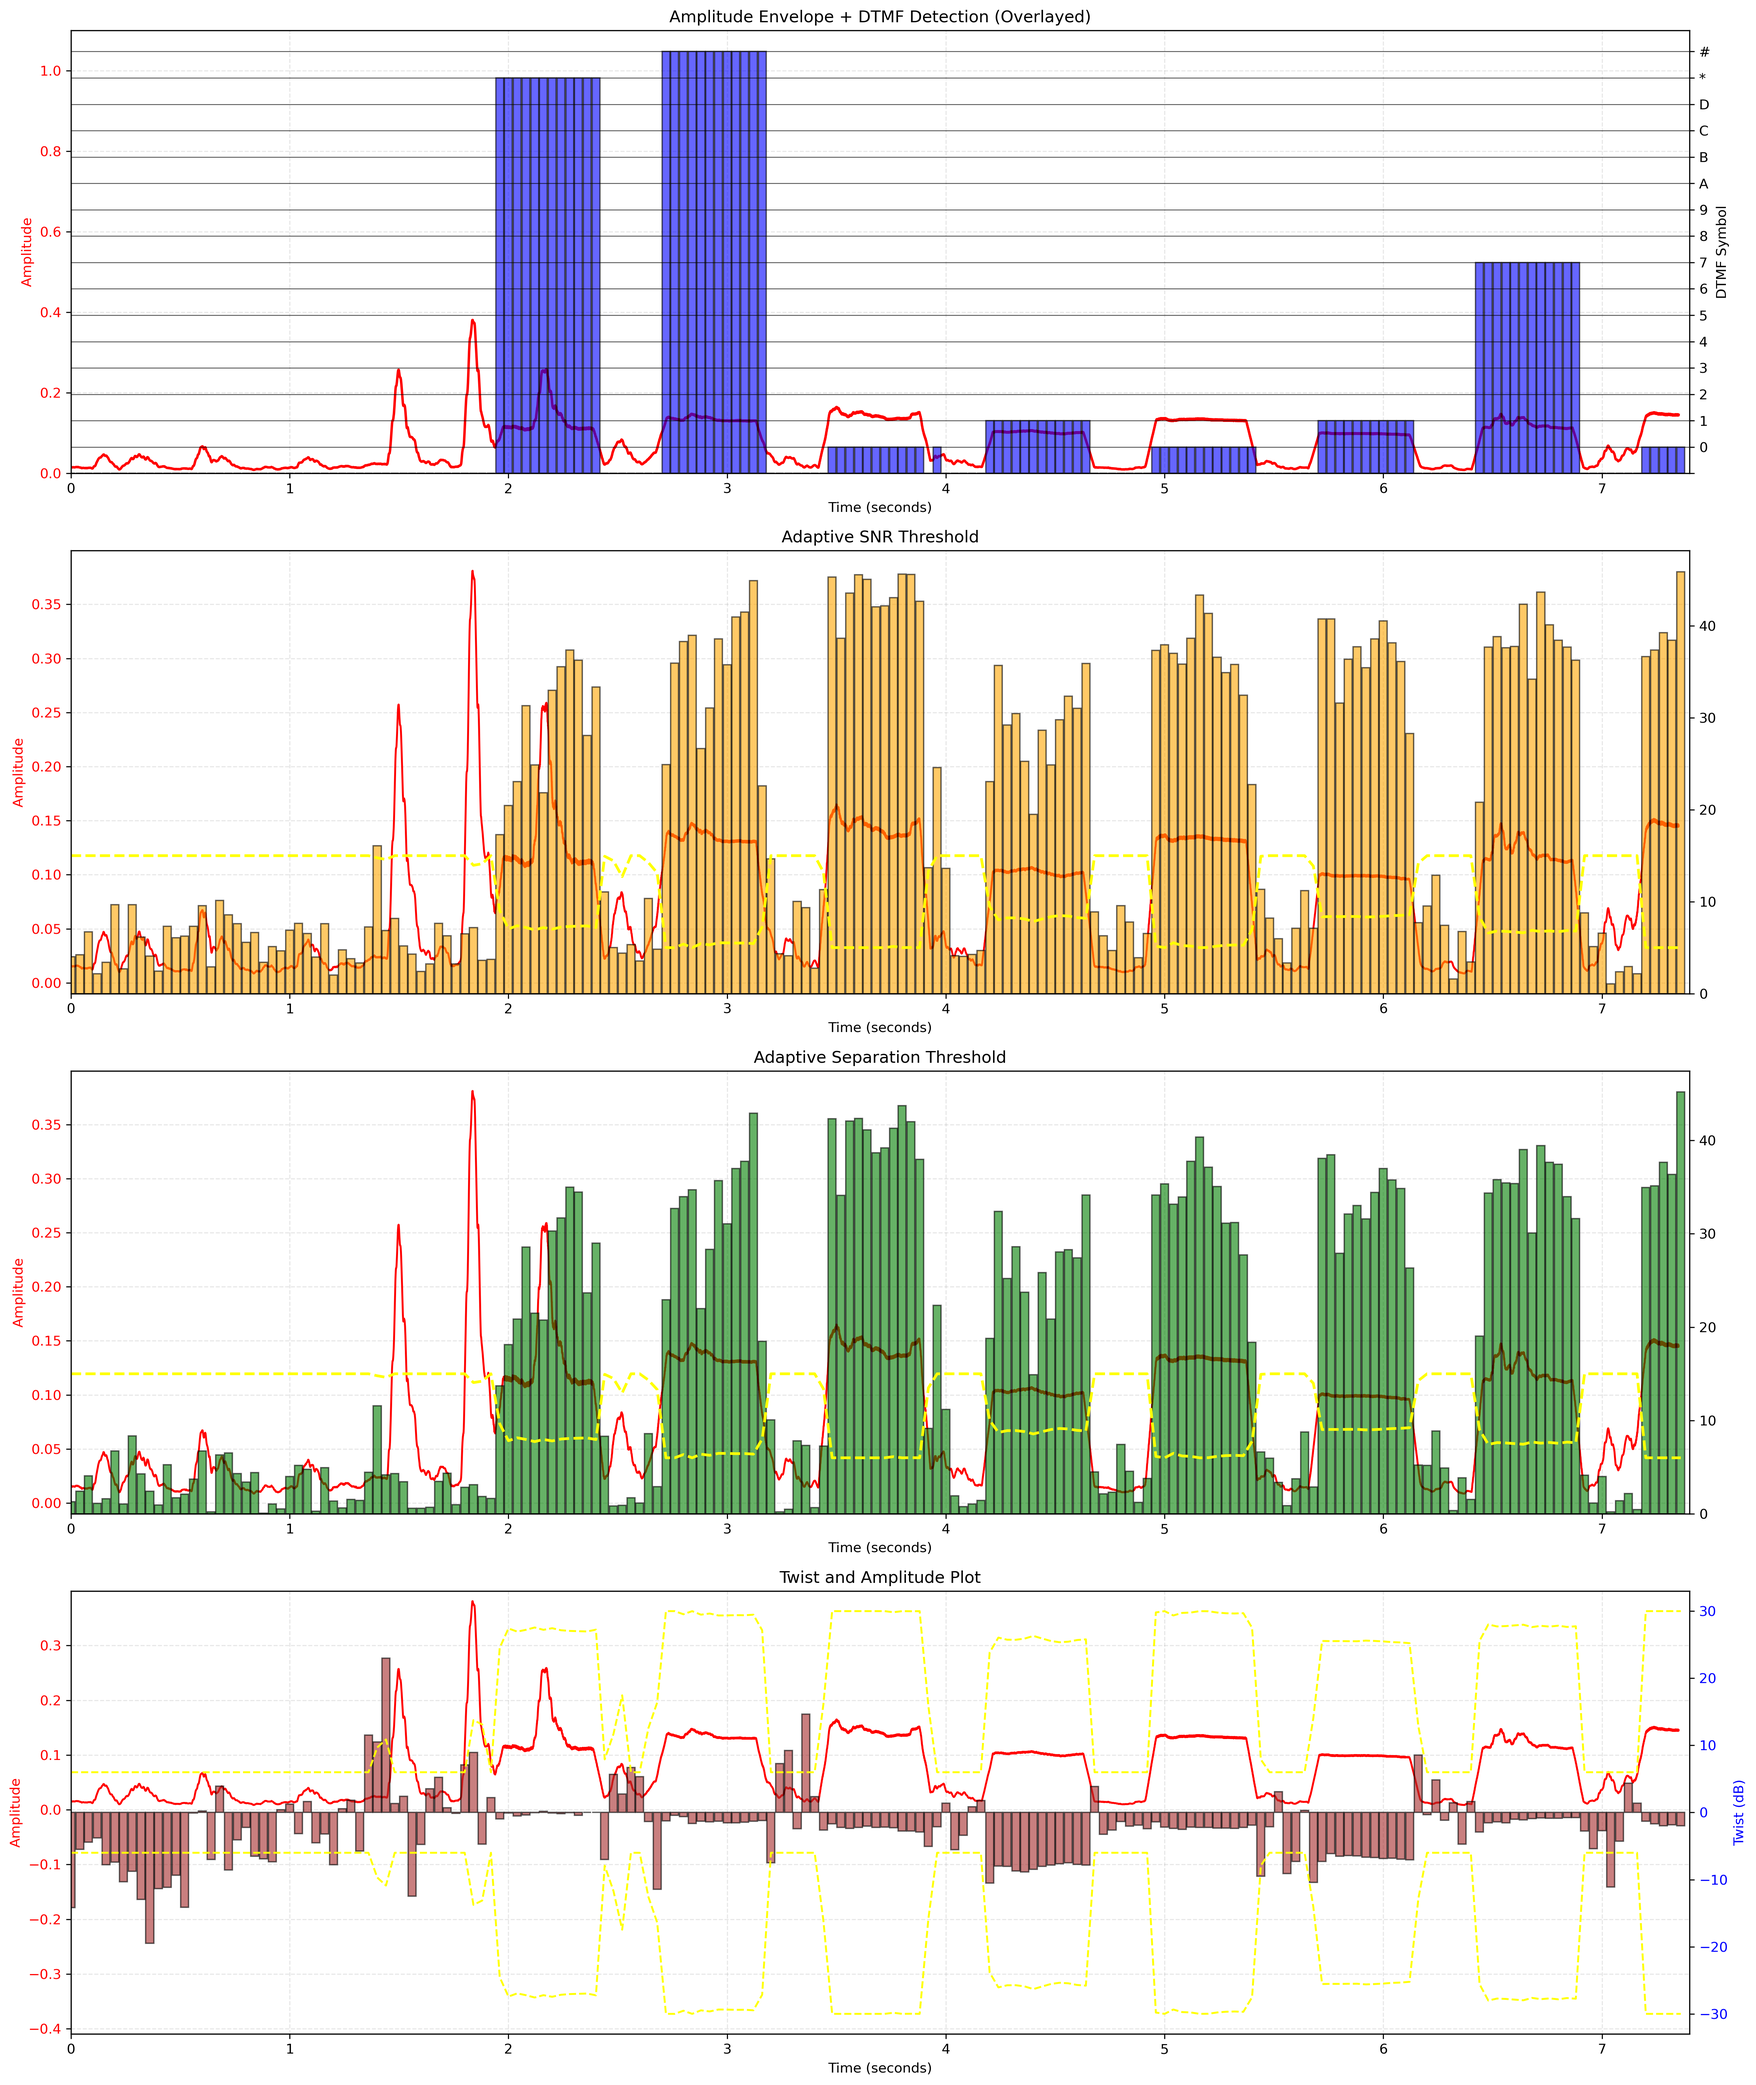
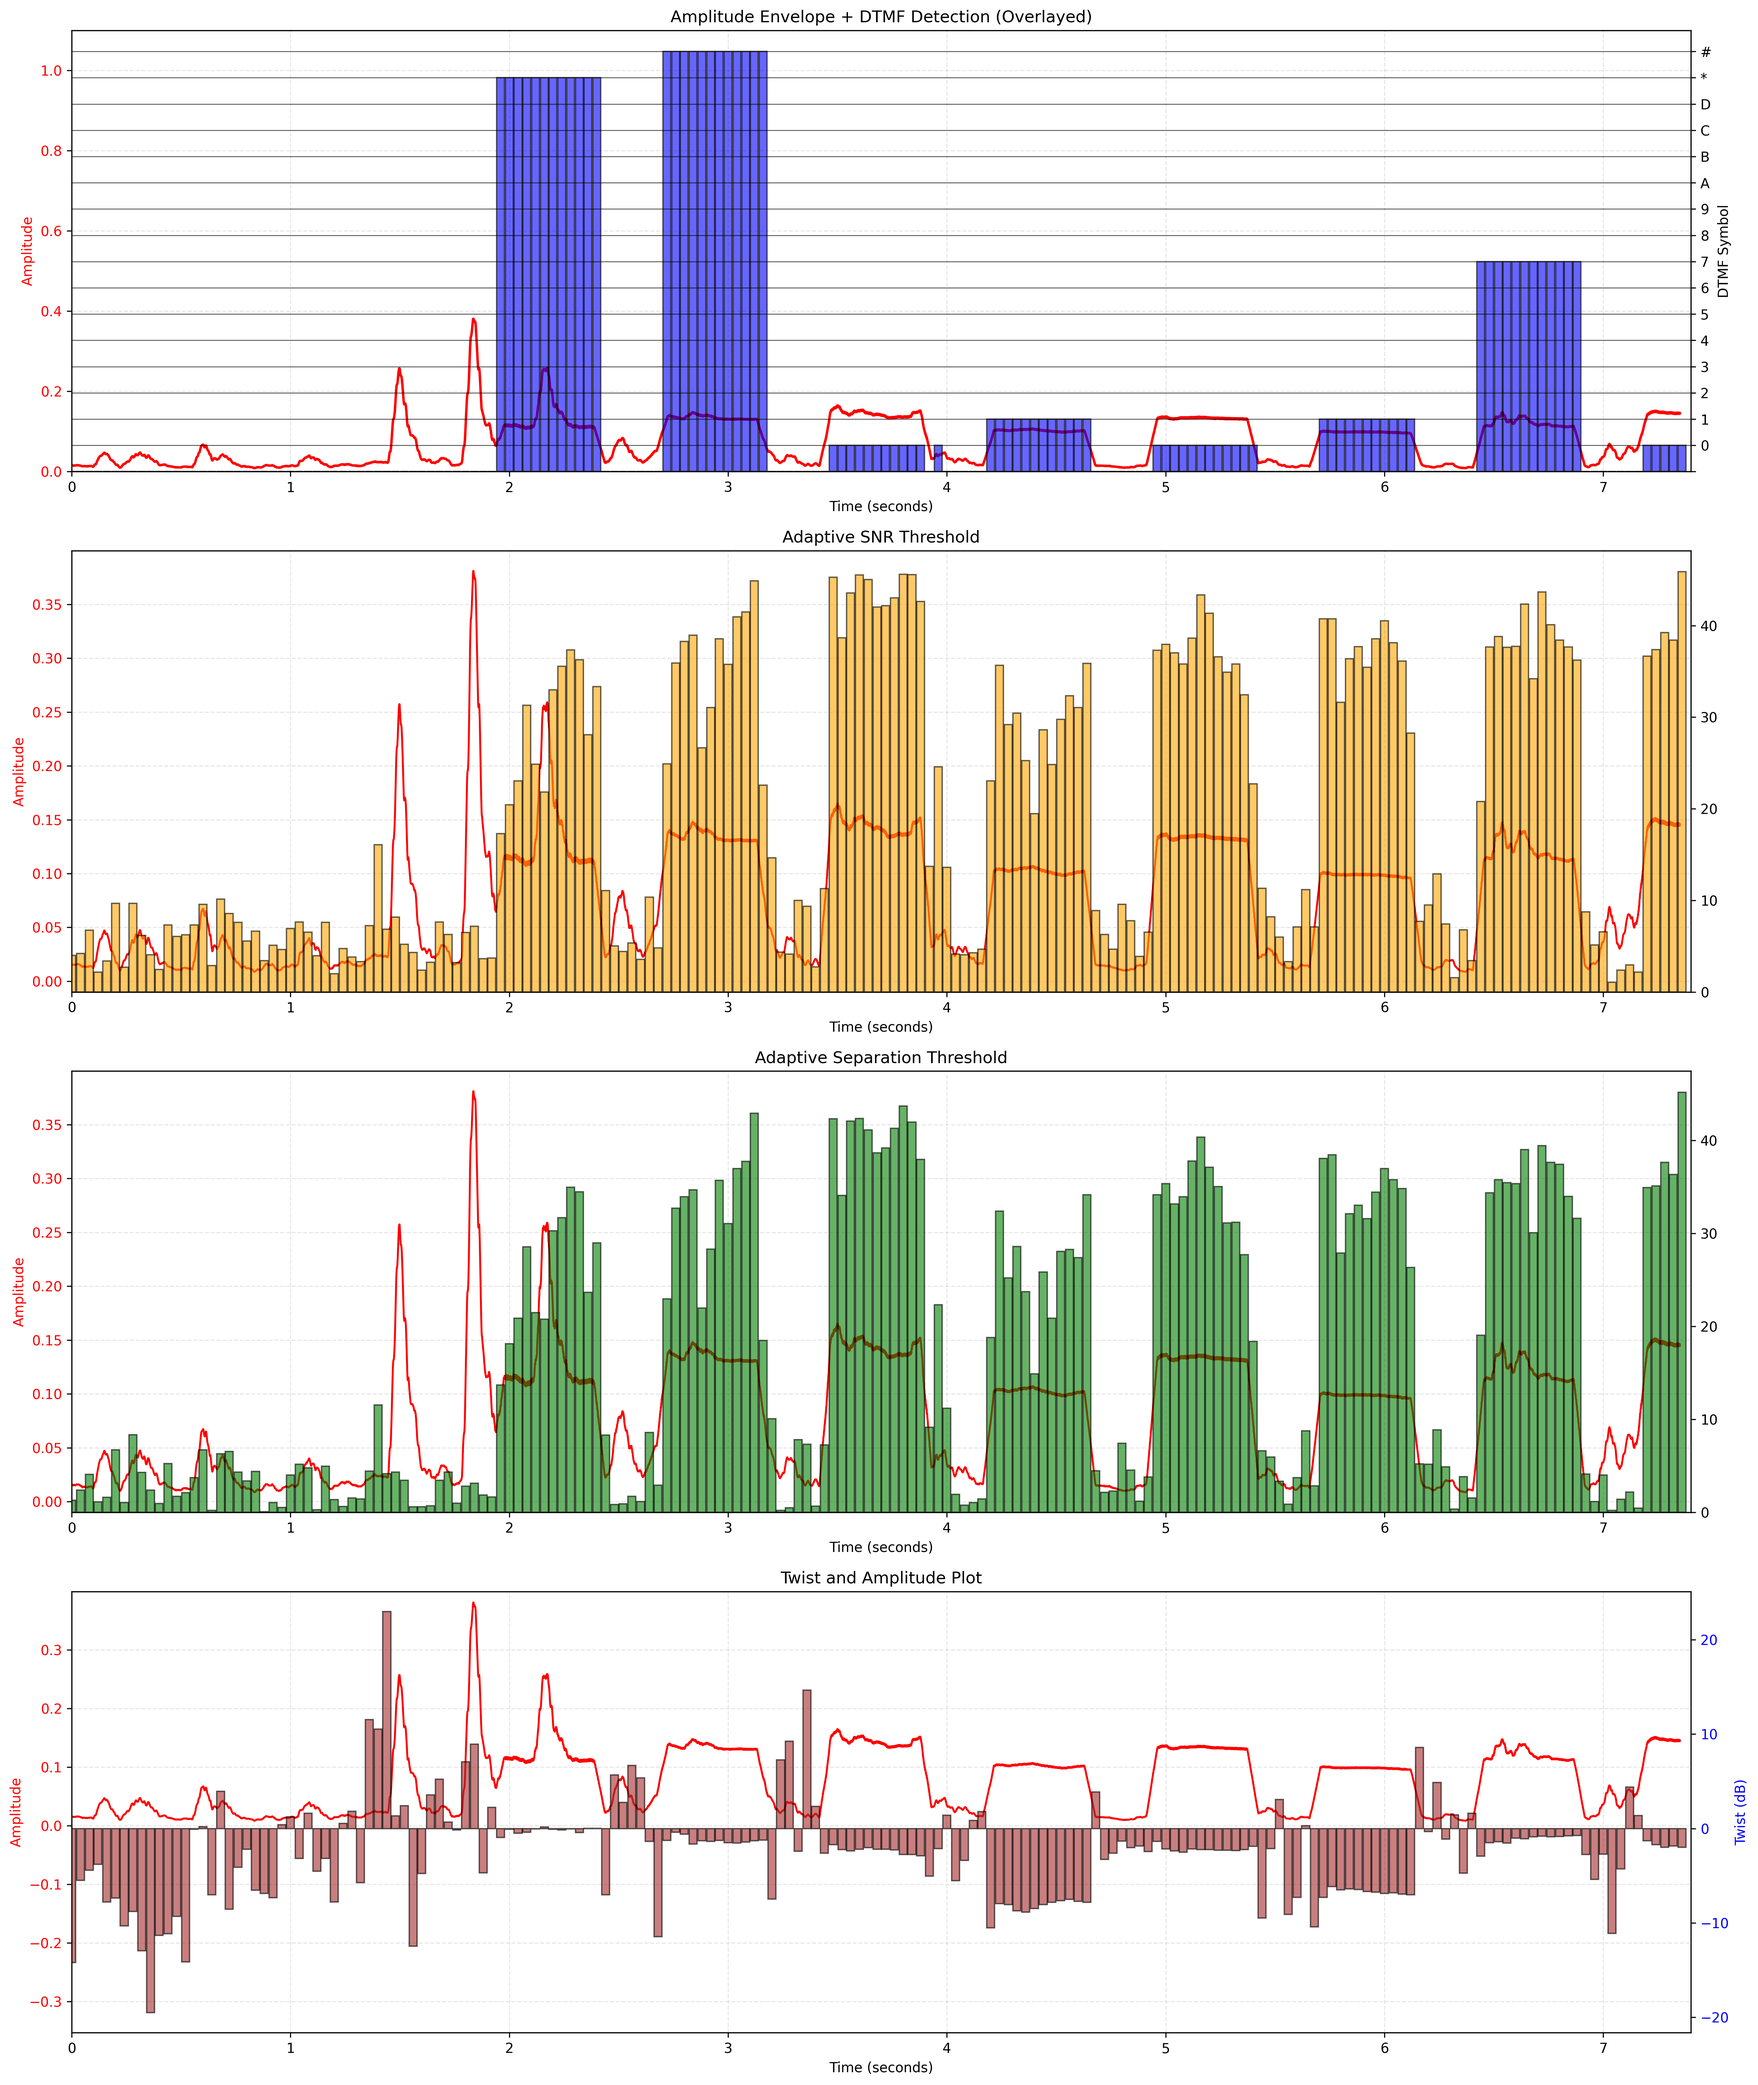
fixed RMS

diff --git a/SignalProc/Plotting.py b/SignalProc/Plotting.py
@@ -161,16 +161,18 @@ class Plotting:
             label="Measured Value"
         )
 
-        # Threshold line
+        """
+            # Threshold line
         ax2.plot(
             x_blocks_sec,
             threshold_line,
-            color="yellow",
+            color="purple",
             linestyle="dashed",
-            linewidth=2,
+            linewidth=3,
             label="Threshold"
         )
-
+        """
+        
         if title == "SNR and Amplitude":
             ax2.set_ylabel("SNR (dB)", color="blue")
             ax2.tick_params(axis="y", labelcolor="blue")
@@ -222,10 +224,10 @@ class Plotting:
         )
 
         # Twist threshold lines
-        ax2.plot(x_blocks_sec, neg_line, color="yellow",
-                linestyle="dashed", linewidth=1.4)
-        ax2.plot(x_blocks_sec, pos_line, color="yellow",
-                linestyle="dashed", linewidth=1.4)
+        #ax2.plot(x_blocks_sec, neg_line, color="purple",
+        #        linestyle="dashed", linewidth=2)
+        #ax2.plot(x_blocks_sec, pos_line, color="purple",
+        #        linestyle="dashed", linewidth=2)
 
         ax2.set_ylabel("Twist (dB)", color="blue")
         ax2.tick_params(axis="y", labelcolor="blue")

diff --git a/SignalProc/DTMFDetector.py b/SignalProc/DTMFDetector.py
@@ -168,7 +168,7 @@ class DTMFDetector:
 
                  # RMS range for adaptivity
                  rms_min: float = 1,
-                 rms_max: float = 0.1):
+                 rms_max: float = 1.5):
         
         # Sampling configuration
         self.fs = int(fs)
@@ -338,6 +338,7 @@ class DTMFDetector:
         snr_thresh = self.adaptive_snr_threshold(
             rms, self.snr_min, self.snr_max, rms_min=0.01, rms_max=0.1
         )
+        
         snr_ok = (snr_low >= snr_thresh) and (snr_high >= snr_thresh)
 
         # Final decision ->
